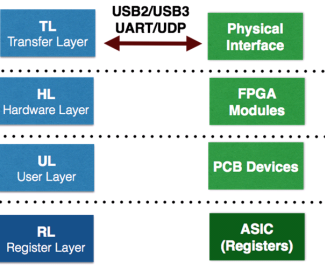
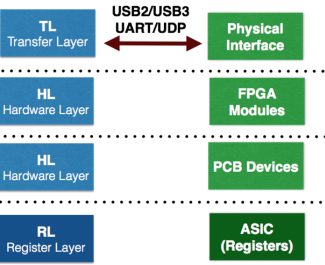
ENH: docs update #6

Changed region(s): [[0.0, 0.5434, 0.3077, 0.7547], [0.0, 0.5132, 0.2769, 0.5434]]

diff --git a/docs/software.rst b/docs/software.rst
@@ -25,12 +25,7 @@ Every TL interface implements 2 functions:
 Hardware Layer (HL)
 ====================
 
-Implements drivers for basil modules and external devices.
-
-User Layer (UL)
-===============
-
-Implements drivers which make use of HL. Example ADC control with spi module.
+Implements drivers for basil modules and external devices. Drivers can reference other drivers within HL.
 
 
 Register Layer (RL)
